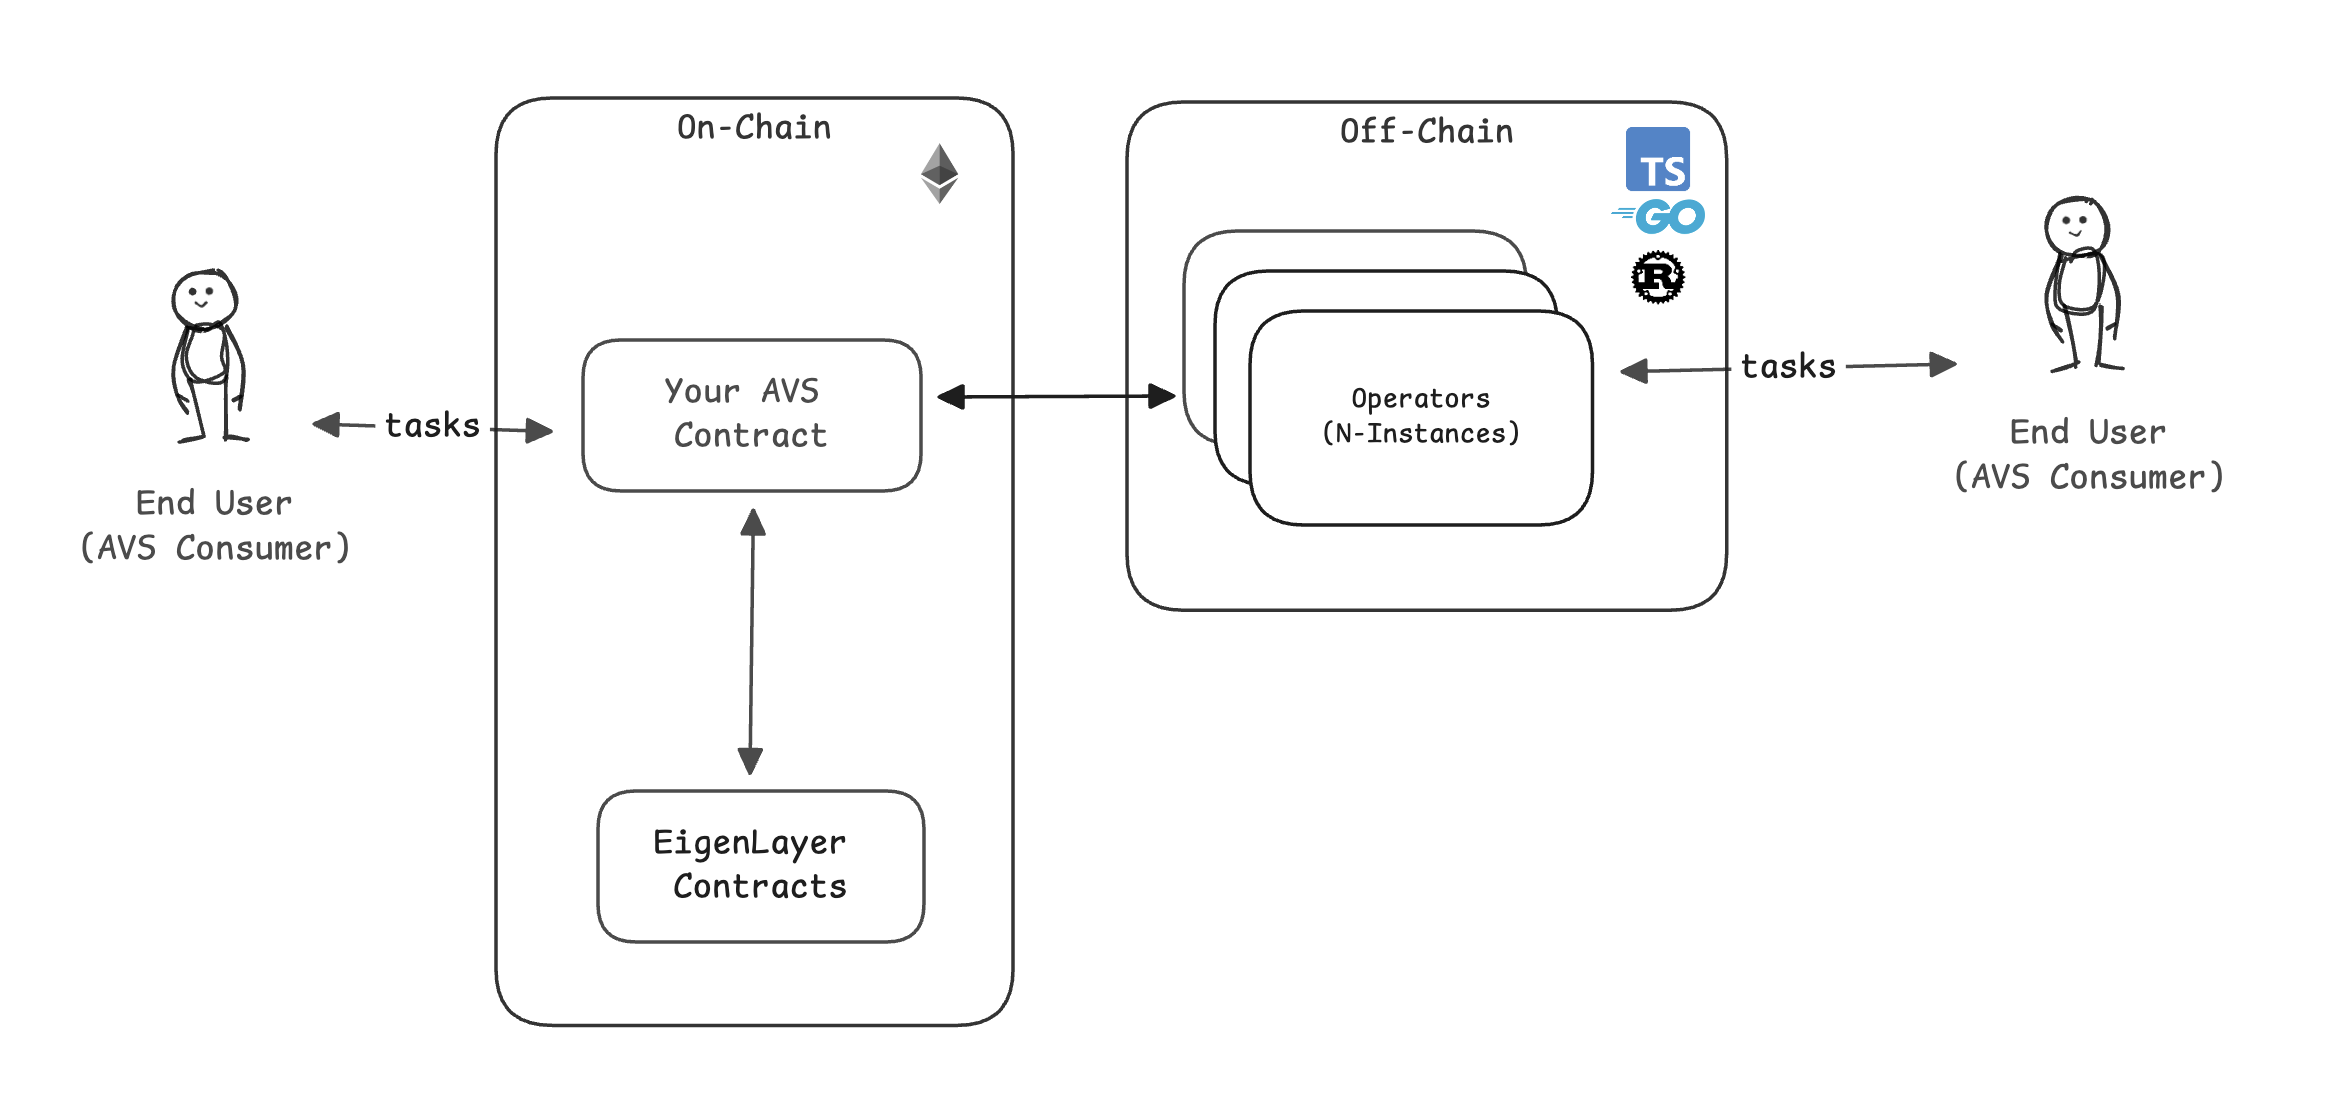
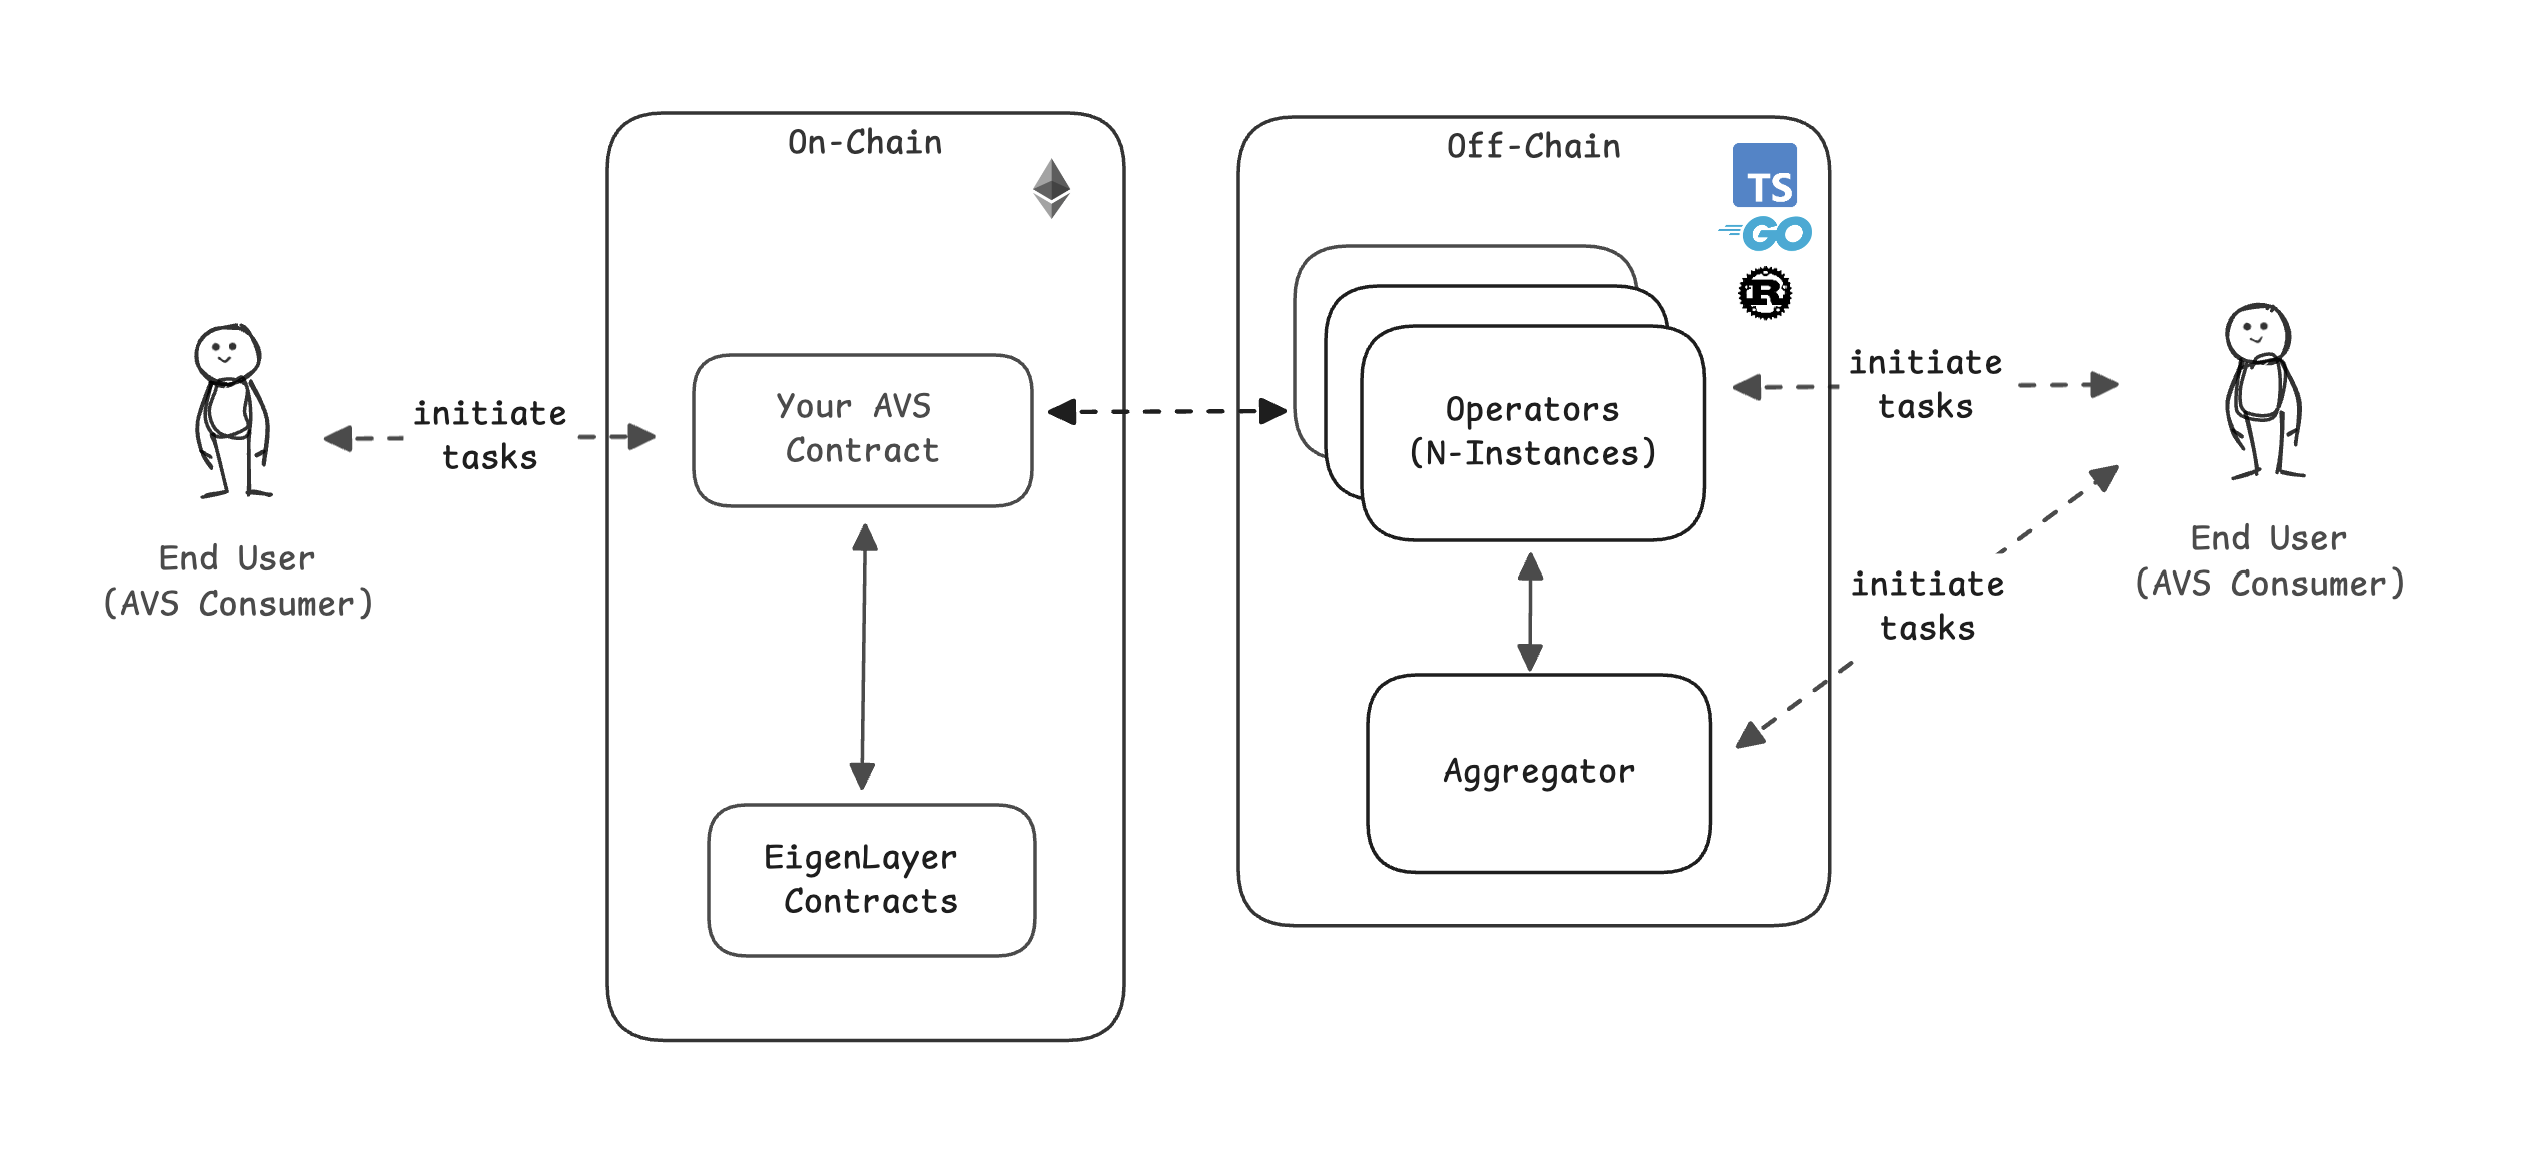
temp fixes, not yet complete

diff --git a/docs/developers/how-to-build-an-avs.md b/docs/developers/how-to-build-an-avs.md
@@ -10,11 +10,6 @@ Before proceeding, please review the previous sections on [AVS Overview](./avs-d
 
 ## Step 1: AVS Design
 
-[todo lots of work here]
-
-### Validation Techniques (Trust Engineering)
-
-
 ### Task Design
 
 Tasks are a common design model used for AVS operations. They are not required, but they are a common mechanism used by AVS designers. Tasks enable the AVS to organize discrete units of work performed by Operators offchain, which are later validated onchain.
@@ -23,16 +18,20 @@ Tasks can be submitted either:
 1) Onchain by the Consumer (end user) to the AVS contracts.
 2) Offchain by the Consumer directly to the Operators. 
 
-### Signature Types
 
-In the EigenLayer ecosystem, signatures play a crucial role in ensuring the integrity and authenticity of operations. Signatures cryptographically confirm that a specific wallet address has signed a message (e.g., a string value) with its private key. Currently, there are two primary types of signatures used within EigenLayer: BLS (Boneh-Lynn-Shacham) and ECDSA (Elliptic Curve Digital Signature Algorithm) signatures.
+### BLS and ECDSA Signature Types
+
+In the EigenLayer ecosystem, signatures play a crucial role in ensuring the integrity and authenticity of operations. Signatures cryptographically confirm that a specific wallet address has signed a given message (e.g., a string value) with its private key. Currently, there are two primary types of signatures used within EigenLayer:
+- BLS (Boneh-Lynn-Shacham) signatures offer native aggregation, combining multiple operator signatures to be combined into one, reducing on chain storage needs, verification time and gas costs. However, they require a slightly more complex implementation that includes an aggregator entity.
+- ECDSA signatures are simpler to impelement, because ECDSA does not support aggregation and so ECDSA services do not require an aggregator entity. However, this lack of aggregation support requires each ECDSA signature to be stored and verified individually, which increases both storage and gas costs as the number of signatures grows.
+- Please note: as of [eigenlayer-middleware v0.2.1](https://github.com/Layr-Labs/eigenlayer-middleware/releases/tag/v0.2.1-mainnet-rewards) the [ECDSAServiceManagerBase contract](https://github.com/Layr-Labs/eigenlayer-middleware/blob/v0.2.1-mainnet-rewards/src/unaudited/ECDSAServiceManagerBase.sol) was not yet fully audited. Please check the most recent release as this is expected to change.
+
 
 ### Task and Signature Aggregation
 
 Operator responses to tasks are often signed using the BLS or ECDSA algorithm. These signatures can be aggregated by any entity at any time, but they are often aggregated by an entity run by the AVS (the "aggregator"). A common AVS design involves combining multiple Operator BLS signatures into a single aggregate signature and written on chain ([example here](https://github.com/Layr-Labs/eigensdk-go/blob/dev/services/bls_aggregation/blsagg.go) written in Go). The aggregate signature can then be verified to confirm whether any of the individual Operators were included in the aggregate.
 
 ### Design Your AVS Security (Trust Model)
-
 Consider the following requirements for your AVS:
 - Which portion of your project needs to be proven on chain?
 - Which Operator behaviors should be rewarded, and which behaviors are malicious and should be slashed or penalized?”
@@ -40,7 +39,7 @@ Consider the following requirements for your AVS:
 
 
       
-## Step 2: Idea to Code: Testing and Deploying your AVS Locally
+## Step 2: Idea to Code (Building and Deploying your AVS Locally)
 
 The following section covers the minimum set of smart contract integrations and deployment scripts that an AVS needs to build in order to:
 1. Be considered a fully functional AVS for demo and proof of concept purposes.

diff --git a/docs/developers/avs-developer-guide.md b/docs/developers/avs-developer-guide.md
@@ -9,9 +9,13 @@ title: AVS Overview
 
 An Actively Validated Service (AVS) on EigenLayer is a decentralized service built on Ethereum that provides its own custom validation mechanisms of offchain operations. Please see the [Intro to EigenLayer](https://docs.eigenlayer.xyz/eigenlayer/overview/) for background context on the broader EigenLayer ecosystem.
 
-An AVS is composed of both onchain contracts for validation and an offchain network of Operators that execute its service. Operators that have opted in to the AVS execute tasks on behalf of the AVS and then post evidence of their execution onchain to the AVS contracts. The design of the offchain execution and onchain validation is entirely flexible based on the needs of the AVS developer. If the Operators perform the tasks properly, the AVS will distribute rewards. If the Operators perform the tasks maliciously, their delegate stake can be slashed by the AVS. Please see the original EigenLayer whitepaper [EigenLayer: The Restaking Collective](/docs/eigenlayer/overview/whitepaper.md) for further background on AVS design.
+An AVS is composed of onchain contracts for validation and an offchain network of Operators. Operators execute the service on behalf of the AVS and then post evidence of their execution onchain to the AVS contracts. Tasks can be initiated via onchain contracts, off chain via direct communication with the Operators, or via a task aggregator entity.
 
-Examples of these services may include sidechains, data availability layers, new virtual machines, keeper networks, oracle networks, bridges, threshold cryptography schemes, and trusted execution environments (TEEs).
+The design of the offchain execution and onchain validation is entirely flexible based on the needs of the AVS developer. 
+- If the Operators perform the tasks properly, the AVS will distribute rewards.
+- If the Operators perform the tasks maliciously, their delegate stake can be slashed by the AVS, and the Operator can be removed from the Operator set. 
+
+ Please see the original EigenLayer whitepaper [EigenLayer: The Restaking Collective](/docs/eigenlayer/overview/whitepaper.md) for further background on AVS design.
 
 ![AVS Architecture](/img/avs/avs-architecture-v2.png)
 
@@ -27,10 +31,14 @@ The key benefits of building an AVS on EigenLayer include:
 - Decentralization and Trust: Build on a trust-minimized, decentralized infrastructure.
 - Composability: Seamlessly integrate with the broader Ethereum ecosystem.
 
-** internal TODO: request legal review of the wording on this page before merging **
 
+## What Can You Build as an AVS?
 
+The scope of AVSs is broad, it includes **any offchain service** that can be validated on chain. This flexibility allows AVS developers to design custom validation mechanisms suited to the unique requirements of their service. The only requirement is that some evidence for the offchain service’s execution is posted onchain to enable validation of the service.
 
+Examples of these services include rollup services, co-processors, cryptography services, zk Proof services, and more.
+
+![AVS Categories](/img/avs/avs-categories.png)
 
 
 ## Get in Touch

diff --git a/docs/developers/quickstart.md b/docs/developers/quickstart.md
@@ -22,8 +22,56 @@ The [Hello World AVS](https://github.com/Layr-Labs/hello-world-avs) is a simple 
 
 ## Code Walkthrough
 
-*Question to Nader - can we simply embed this video here as a Youtube video? If so, here is an example of how it could look:*
-<iframe width="560" height="315" src="https://www.youtube.com/embed/2-maLV1O2lU?si=85qZl4xmsL0nBKPq" title="YouTube video player" frameborder="0" allow="accelerometer; autoplay; clipboard-write; encrypted-media; gyroscope; picture-in-picture; web-share" referrerpolicy="strict-origin-when-cross-origin" allowfullscreen></iframe>
+### Onchain Smart Contracts
+
+The following sections highlight a few crucial components of the Hello World example that implement core AVS functionality. 
+
+**[HelloWorldServiceManager.sol](https://github.com/Layr-Labs/hello-world-avs/blob/master/contracts/src/HelloWorldServiceManager.sol)**
+
+The contract definition declares that it implements `ECDSAServiceManagerBase`, which allows it to inherit the core required functionality of `IServiceManager`
+```solidity
+contract HelloWorldServiceManager is ECDSAServiceManagerBase, IHelloWorldServiceManager {
+    using ECDSAUpgradeable for bytes32;
+```
+
+The following functions are responsible for the "business logic" of the AVS. In the case of hello world the business logic includes managing the lifecycle of a "task" (creation and response) with a simple `name` string value.
+```solidity
+function createNewTask(string memory name) external returns (Task memory) { ...}
+
+function respondToTask(Task calldata task, uint32 referenceTaskIndex, bytes memory signature) external {
+```
+
+**[HelloWorldDeployer.s.sol](https://github.com/Layr-Labs/hello-world-avs/blob/master/contracts/script/HelloWorldDeployer.s.sol)**
+
+The deployment of the HelloWorld contracts associates the quorums and their asset strategies to the AVS.
+
+```solidity
+    token = new ERC20Mock();
+    helloWorldStrategy = IStrategy(StrategyFactory(coreDeployment.strategyFactory).deployNewStrategy(token));
+
+    quorum.strategies.push(
+        StrategyParams({strategy: helloWorldStrategy, multiplier: 10_000})
+    );
+```
+
+
+**[HelloWorldDeploymentLib.sol](https://github.com/Layr-Labs/hello-world-avs/blob/master/contracts/script/utils/HelloWorldDeploymentLib.sol)**
+
+
+
+Please find a complete list of the requirements to implement an AVS at [Build Your Own AVS: Step 2 Idea to Code](/docs/developers/how-to-build-an-avs.md#step-2-idea-to-code-building-and-deploying-your-avs-locally).
+
+### Offchain Operator Code
+
+**** todo
+Operator code, focus on registering operator, registering and respond to task
+
+
+
+
+
+
+### 
 
 
 
@@ -32,4 +80,3 @@ The [Hello World AVS](https://github.com/Layr-Labs/hello-world-avs) is a simple 
 
 Please follow the steps under [Local Devnet Deployment](https://github.com/Layr-Labs/hello-world-avs?tab=readme-ov-file#local-devnet-deployment) to deploy an instance of Hello World locally on your machine.
 
-* Question to Nader: can we avoid creating a copy of the Hello World AVS walkthrough content in these docs, if it is duplicative of the information in the repo Readme here?
